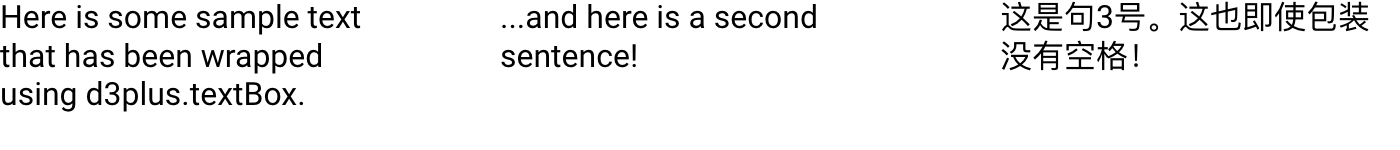
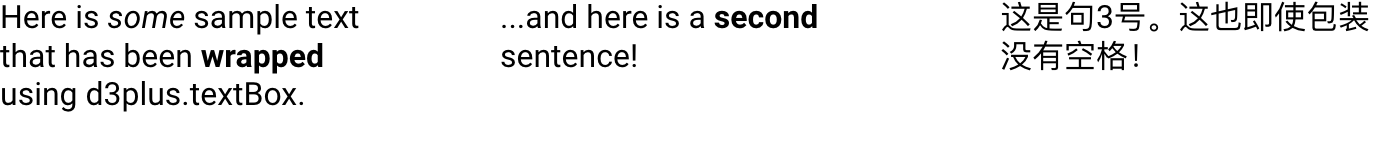
d3plus-text examples

Changed region(s): [[0.0614, 0.0267, 0.2764, 0.2133], [0.1229, 0.32, 0.2457, 0.4533], [0.4914, 0.0533, 0.5836, 0.1867]]

diff --git a/_examples/d3plus-text/getting-started/embed.html b/_examples/d3plus-text/getting-started/embed.html
@@ -22,8 +22,8 @@
 <script>
 
   var data = [
-    {text: "Here is some sample text that has been wrapped using d3plus.textBox."},
-    {text: "...and here is a second sentence!"},
+    {text: "Here is <i>some</i> sample text that has been <strong>wrapped</strong> using d3plus.textBox."},
+    {text: "...and here is a <b>second</b> sentence!"},
     {text: "这是句3号。这也即使包装没有空格！"}
   ];
 

diff --git a/_examples/d3plus-text/getting-started/index.md b/_examples/d3plus-text/getting-started/index.md
@@ -2,8 +2,8 @@
 title: Wrapping SVG Text
 width: 700
 height: 75
-time: 1546555717817
-date: January 03, 2019
+time: 1547846737705
+date: January 18, 2019
 ---
 
 [width]: 700
@@ -15,8 +15,8 @@ Without a doubt, the most commonly requested part of the [d3plus-text](https://g
 
 ```js
 var data = [
-  {text: "Here is some sample text that has been wrapped using d3plus.textBox."},
-  {text: "...and here is a second sentence!"},
+  {text: "Here is <i>some</i> sample text that has been <strong>wrapped</strong> using d3plus.textBox."},
+  {text: "...and here is a <b>second</b> sentence!"},
   {text: "这是句3号。这也即使包装没有空格！"}
 ];
 ```

diff --git a/_examples/d3plus-text/resizing-text/index.md b/_examples/d3plus-text/resizing-text/index.md
@@ -2,8 +2,8 @@
 title: Resizing Text to Fill Container
 width: 450
 height: 100
-time: 1546555717817
-date: January 03, 2019
+time: 1547846737705
+date: January 18, 2019
 ---
 
 [width]: 450
